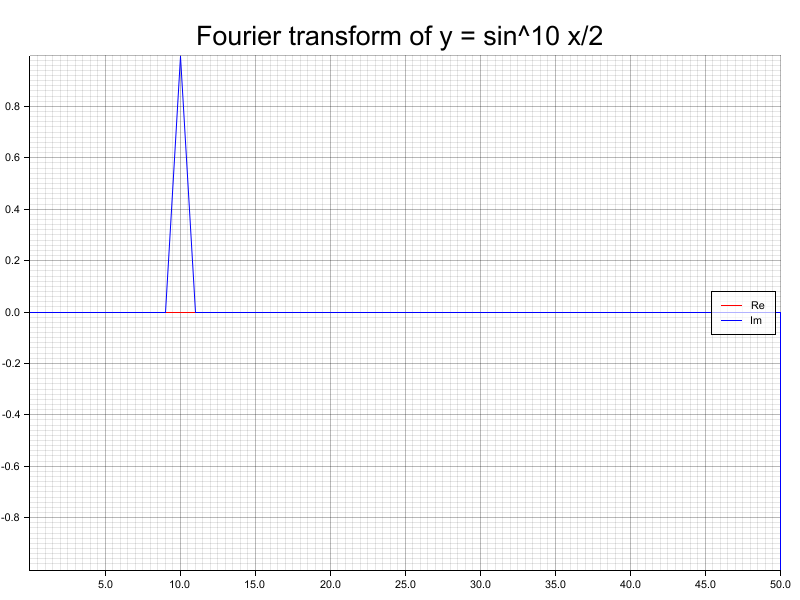
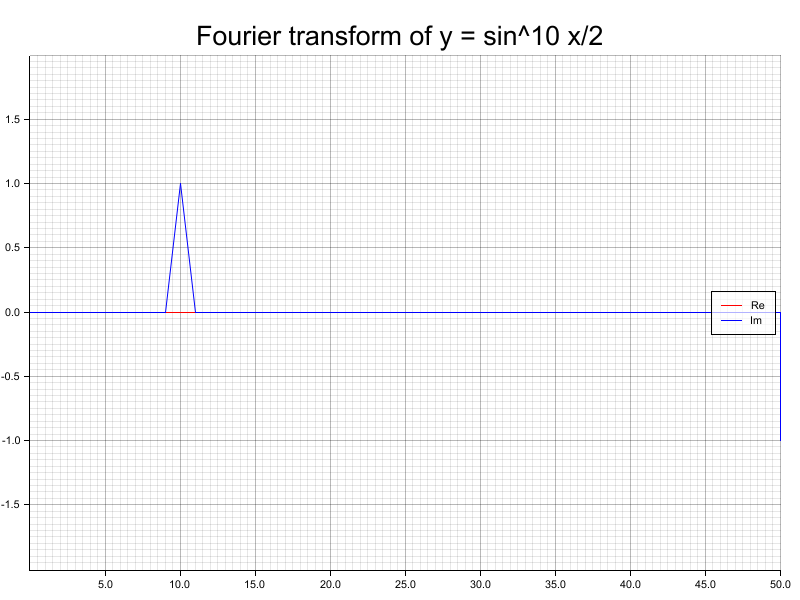
ifft

Changed region(s): [[0.0, 0.09, 0.9688, 0.96]]

diff --git a/src/main.rs b/src/main.rs
@@ -3,7 +3,7 @@ use plotters::prelude::*;
 mod complex;
 use complex::Complex;
 mod fft;
-use fft::fft;
+use fft::*;
 
 fn main() -> Result<(), Box<dyn std::error::Error>> {
     let root = BitMapBackend::new("png/fft.png", (800, 600)).into_drawing_area();
@@ -17,7 +17,7 @@ fn main() -> Result<(), Box<dyn std::error::Error>> {
         .margin(20)
         .x_label_area_size(10)
         .y_label_area_size(10)
-        .build_ranged(0.0f64..50.0f64, -1.0f64..1.0f64)?;
+        .build_ranged(0.0f64..50.0f64, -2.0f64..2.0f64)?;
 
     chart.configure_mesh().draw()?;
 
@@ -26,6 +26,19 @@ fn main() -> Result<(), Box<dyn std::error::Error>> {
         .map(|x| (10. * x).sin())
         .map(|x| Complex::new(x, 0.0))
         .collect();
+
+    // let input = (0..4096)
+    //     .map(|i| {
+    //         if i == 10 {
+    //             1.0f64
+    //         } else if i == 3 {
+    //             0.5f64
+    //         } else {
+    //             0.0f64
+    //         }
+    //     })
+    //     .map(|x| Complex::new(x, 0.0f64))
+    //     .collect();
 
     let output = fft(input);
 
@@ -63,8 +76,8 @@ fn main() -> Result<(), Box<dyn std::error::Error>> {
     println!("{:?}", c - d);
     println!("{:?}", c * d);
     println!("{:?}", c / d);
-    println!("{:?}", c.norm());
-    println!("{:?}", c.norm2());
+    println!("{:?}", c.abs());
+    println!("{:?}", c.abs2());
     println!("{:?}", c.exp());
 
     Ok(())

diff --git a/src/fft.rs b/src/fft.rs
@@ -1,6 +1,6 @@
 use super::complex::Complex;
 
-pub fn fft(input: Vec<Complex>) -> Vec<Complex> {
+pub fn ifft(input: Vec<Complex>) -> Vec<Complex> {
     let len = input.len();
     let l = (len as f64).log2().ceil() as u32;
     let n = 2u32.pow(l) as usize;
@@ -27,4 +27,33 @@ pub fn fft(input: Vec<Complex>) -> Vec<Complex> {
     }
 
     x[l as usize].clone()
+}
+
+pub fn fft(input: Vec<Complex>) -> Vec<Complex> {
+    let len = input.len();
+    let l = (len as f64).log2().ceil() as u32;
+    let n = 2u32.pow(l) as usize;
+    let mut x = vec![vec![Complex::new(0.0, 0.0); n]; (l + 1) as usize];
+    for i in 0..len {
+        x[0][i] = input[i].conj();
+    }
+
+    let mut p = n >> 1;
+    let mut r = 1;
+    for i in 0..l as usize {
+        for r_hat in 0..r as usize {
+            for p_hat in 0..p as usize {
+                x[i + 1][2 * r * p_hat + r_hat] =
+                    x[i][r * p_hat + r_hat] + x[i][p * r + r * p_hat + r_hat];
+                x[i + 1][2 * r * p_hat + r + r_hat] =
+                    Complex::exp2pi(-(p_hat as f64) / (2. * p as f64))
+                        * (x[i][r * p_hat + r_hat] - x[i][p * r + r * p_hat + r_hat]);
+            }
+        }
+
+        p >>= 1;
+        r <<= 1;
+    }
+
+    x[l as usize].clone().iter().map(|&z| z.conj()).collect()
 }

diff --git a/src/complex.rs b/src/complex.rs
@@ -12,11 +12,11 @@ impl Complex {
         Complex { re: r, im: i }
     }
 
-    pub fn norm(&self) -> f64 {
+    pub fn abs(&self) -> f64 {
         (self.re * self.re + self.im * self.im).sqrt()
     }
 
-    pub fn norm2(&self) -> f64 {
+    pub fn abs2(&self) -> f64 {
         self.re * self.re + self.im * self.im
     }
 
@@ -78,13 +78,14 @@ impl Mul for Complex {
 impl Div for Complex {
     type Output = Complex;
     fn div(self, rhs: Complex) -> Complex {
-        let r = self.re * rhs.re + self.im * rhs.im;
+        let r = rhs.re * rhs.re + rhs.im * rhs.im;
         Complex {
             re: (self.re * rhs.re + self.im * rhs.im) / r,
             im: (-self.re * rhs.im + self.im * rhs.im) / r,
         }
     }
 }
+
 impl Neg for Complex {
     type Output = Complex;
     fn neg(self) -> Complex {
